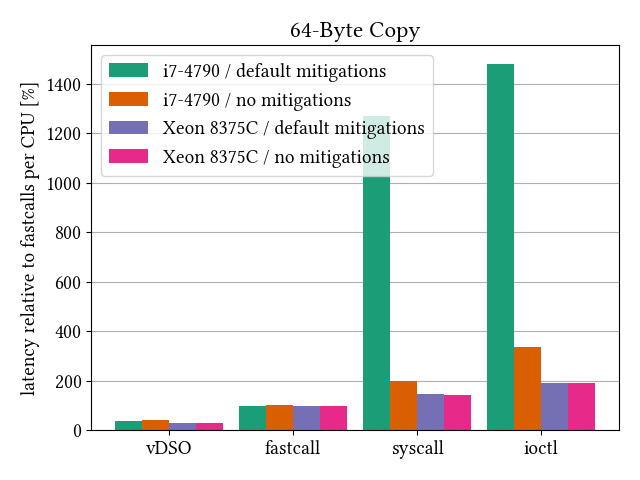
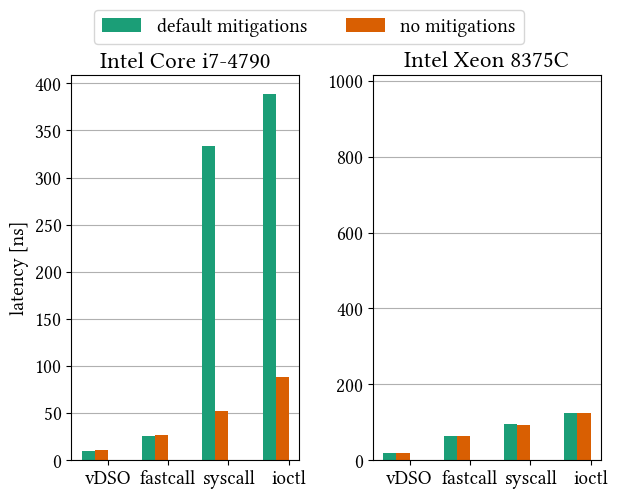
split each CPU compare plot into two subplots
This allows showing a comparison without relative latencies by scaling
the y axes accordingly.

Changed region(s): [[0.0, 0.0312, 0.9854, 0.9688], [0.6467, 0.3125, 0.6775, 0.375]]

diff --git a/plotting/cpucmp.py b/plotting/cpucmp.py
@@ -5,8 +5,8 @@ from matplotlib import pyplot as plt
 import numpy as np
 from .utils import *
 
-PLOT_CPUS = {"Intel(R)_Core(TM)_i7-4790_CPU_@_3.60GHz": "i7-4790",
-             "Intel(R)_Xeon(R)_Platinum_8375C_CPU_@_2.90GHz": "Xeon 8375C"}
+PLOT_CPUS = {"Intel(R)_Core(TM)_i7-4790_CPU_@_3.60GHz": "Intel Core i7-4790",
+             "Intel(R)_Xeon(R)_Platinum_8375C_CPU_@_2.90GHz": "Intel Xeon 8375C"}
 """List of CPUs to compare."""
 
 PLOT_MITI = ("mitigations=auto", "mitigations=off")
@@ -22,10 +22,11 @@ BAR_WIDTH = 1
 BAR_SPACE = 0.6
 """Space between groups of bars in the plots."""
 
-Y_LABEL = "latency relative to fastcalls per CPU [%]"
+Y_LABEL = "latency [ns]"
 LABELS = len(PLOT_CPUS) * len(PLOT_MITI)
 BAR_OFFSET = -(LABELS - 1) * BAR_WIDTH / 2
 BAR_GROUP = LABELS * BAR_WIDTH + BAR_SPACE
+PADDING_TOP = 0.05
 PREFIX = "CPU-compare "
 """Prefix for the plot files."""
 
@@ -36,14 +37,9 @@ def plot(results: Results):
     This uses the latency values which are normalized relative to the latency of
     the first mitigation for each CPU.
     """
-
     cpus = []
     for cpu in PLOT_CPUS:
         cpu = results.array[results.cpus.index(cpu), :, :, :, 0]
-        mi = list(MITIGATIONS.keys()).index(PLOT_MITI[0])
-        me = list(METHODS.keys()).index(NORM_METHOD)
-        norm = cpu[mi, me]
-        cpu = cpu / norm * 100
         cpus.append(cpu)
     cpus = np.stack(cpus)
 
@@ -53,30 +49,50 @@ def plot(results: Results):
 
 
 def plot_scenario(title, results):
-    fig, ax = plt.subplots()
+    method = list(METHODS.keys()).index(NORM_METHOD)
+    mitigation = list(MITIGATIONS.keys()).index(PLOT_MITI[0])
+    fastcalls = results[:, (mitigation,)][:, :, (method,)]
+    relative = results / fastcalls * (1 + PADDING_TOP)
+    y_max = (fastcalls * np.amax(relative)).flatten()
+
+    fig, axes = plt.subplots(ncols=len(PLOT_CPUS))
+
+    for i, (ax, cpu) in enumerate(zip(axes, PLOT_CPUS.values())):
+        plot_cpu(ax, cpu, results[i], y_max[i], i == 0)
+
+    fig.legend(ncol=len(PLOT_MITI), loc="lower center",
+               bbox_to_anchor=(0.5, 0.95))
+    fig.tight_layout()
+
+    plot_file = path.join(PLOTS_DIR, PREFIX + title + PLOT_EXT)
+    fig.savefig(plot_file, bbox_inches="tight")
+
+
+def plot_cpu(ax, cpu, results, y_max, first):
+    """Plot the results for a single CPU into a subplot."""
+
     ax.set_prop_cycle(color=COLORS)
-    ax.set_title(title)
-    ax.set_ylabel(Y_LABEL)
+    ax.set_title(cpu)
+    if first:
+        ax.set_ylabel(Y_LABEL)
 
     labels = []
     bars = []
-    for c, cpu in enumerate(PLOT_CPUS.values()):
-        for mitigation in PLOT_MITI:
-            labels.append(f"{cpu} / {MITIGATIONS[mitigation]}")
-            m = list(MITIGATIONS.keys()).index(mitigation)
-            bars.append(results[c, m])
+    for mitigation in PLOT_MITI:
+        labels.append(MITIGATIONS[mitigation])
+        m = list(MITIGATIONS.keys()).index(mitigation)
+        bars.append(results[m])
 
     x = np.arange(len(METHODS)) * BAR_GROUP
     for i, (ys, label) in enumerate(zip(bars, labels)):
+        if not first:
+            label = None
+
         xs = x + BAR_OFFSET + i * BAR_WIDTH
         ax.bar(xs, ys, BAR_WIDTH, label=label)
 
     ax.set_xticks(x)
     ax.set_xticklabels(METHODS.values())
+    ax.set_ylim(top=y_max)
     ax.set_axisbelow(True)
     ax.yaxis.grid(GRID_ENABLE)
-    ax.legend()
-    fig.tight_layout()
-
-    plot_file = path.join(PLOTS_DIR, PREFIX + title + PLOT_EXT)
-    fig.savefig(plot_file)
